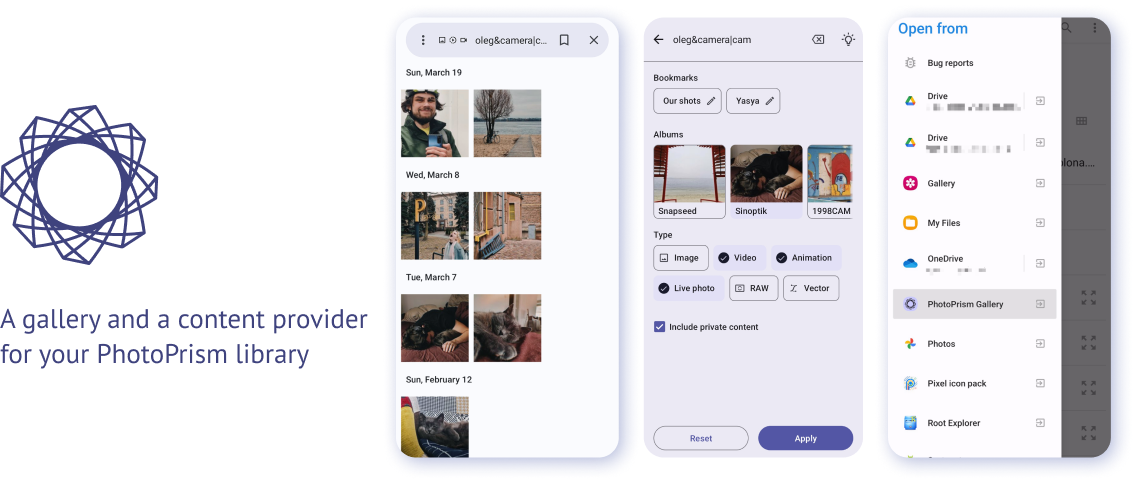
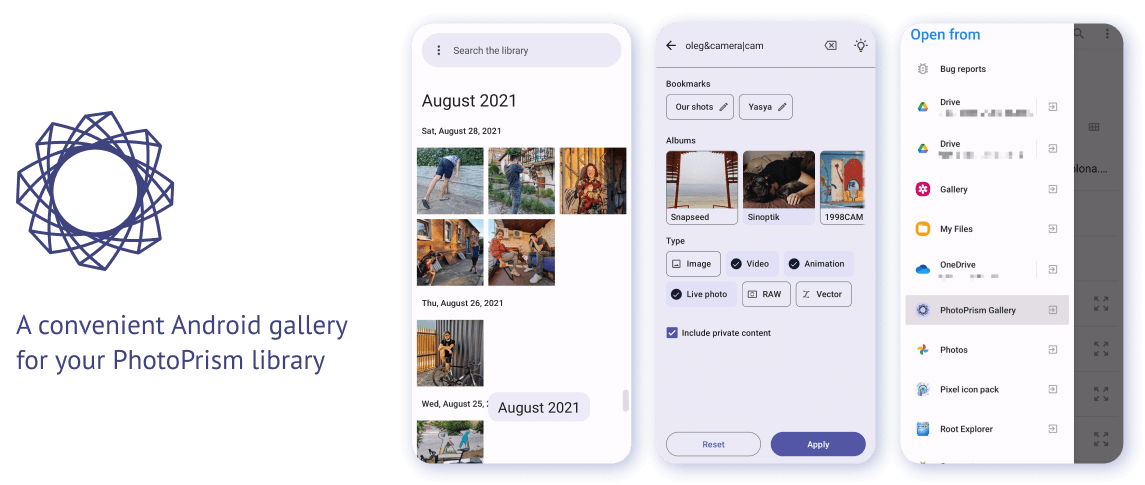
Actualize PhotoPrism screenshots, add 2x version

diff --git a/_projects/photoprism-android-gallery.html b/_projects/photoprism-android-gallery.html
@@ -23,7 +23,8 @@ has_footer_image: false
 <img
     style="width: 100%;"
     alt="{{ page.title }}"
-    src="{% link /assets/img/projects/{{ page.slug }}/screenshots.png %}">
+    src="{% link /assets/img/projects/{{ page.slug }}/screenshots.png %}"
+    srcset="{% link /assets/img/projects/{{ page.slug }}/screenshots@2x.png %} 2x">
 <p>
     PhotoPrism Gallery does not support all the official web app functionality, but
     nevertheless has plenty of useful features:<ul>
